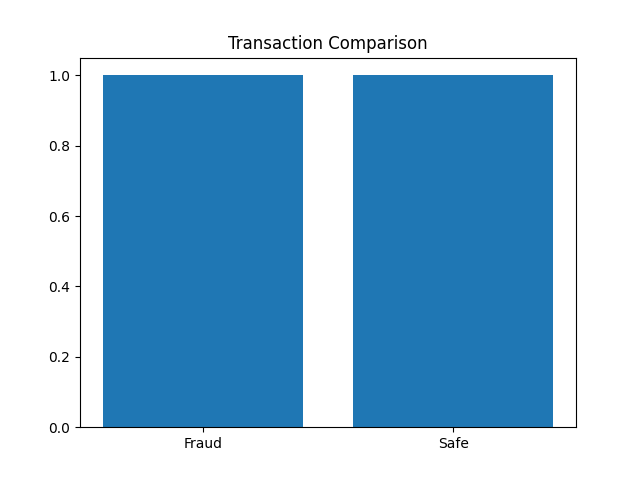
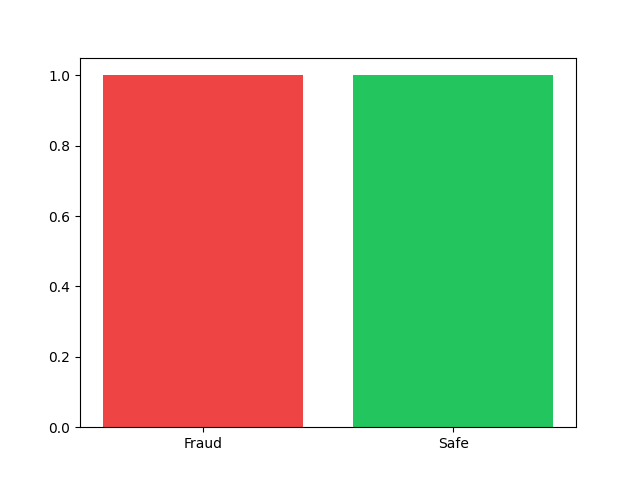
fraud

diff --git a/app.py b/app.py
@@ -5,8 +5,9 @@ import pandas as pd
 import os
 import matplotlib.pyplot as plt
 
-from reportlab.platypus import SimpleDocTemplate, Paragraph, Spacer, Image
+from reportlab.platypus import SimpleDocTemplate, Paragraph, Spacer, Image, Table, TableStyle
 from reportlab.lib.styles import getSampleStyleSheet
+from reportlab.lib import colors
 
 app = Flask(__name__)
 app.secret_key = "secret123"
@@ -92,7 +93,7 @@ def predict_ui():
         explanation=explanation
     )
 
-# ---------------- PDF REPORT ----------------
+# ---------------- PDF REPORT (FINAL CORPORATE) ----------------
 @app.route('/download_report')
 def download_report():
     df = pd.read_csv(LOG_FILE)
@@ -105,17 +106,16 @@ def download_report():
     pie_path = "pie.png"
     bar_path = "bar.png"
 
-    # Pie chart
+    # PIE CHART
     plt.figure()
-    plt.pie([fraud, safe], labels=["Fraud","Safe"], autopct='%1.1f%%')
-    plt.title("Fraud Distribution")
+    plt.pie([fraud, safe], labels=["Fraud","Safe"], autopct='%1.1f%%',
+            colors=["#ef4444","#22c55e"])
     plt.savefig(pie_path)
     plt.close()
 
-    # Bar chart
+    # BAR CHART
     plt.figure()
-    plt.bar(["Fraud","Safe"], [fraud, safe])
-    plt.title("Transaction Comparison")
+    plt.bar(["Fraud","Safe"], [fraud,safe], color=["#ef4444","#22c55e"])
     plt.savefig(bar_path)
     plt.close()
 
@@ -126,66 +126,101 @@ def download_report():
 
     content = []
 
-    # TITLE
-    content.append(Paragraph("<b>Fraud Detection Report</b>", styles['Title']))
+    from datetime import datetime
+
+    # HEADER
+    content.append(Paragraph("<b>Fraud Detection System - Corporate Report</b>", styles['Heading1']))
+    content.append(Paragraph("Financial Transaction Analysis Dashboard", styles['Normal']))
+    content.append(Spacer(1, 10))
+
+    content.append(Paragraph(
+        f"Generated on: {datetime.now().strftime('%d %B %Y, %H:%M')}",
+        styles['Normal']))
     content.append(Spacer(1, 15))
 
-    # INTRO
-    content.append(Paragraph(
-        "This report provides an overview of transaction analysis performed by the Fraud Detection System.",
-        styles['Normal']))
-    content.append(Spacer(1, 20))
+    # WIDE TABLE
+    table_data = [
+        ["Metric", "Description", "Value"],
+        ["Total Transactions", "All processed transactions in system", total],
+        ["Fraud Transactions", "Transactions flagged as suspicious", fraud],
+        ["Safe Transactions", "Transactions considered normal", safe],
+        ["Fraud Percentage", "Fraud ratio in total transactions", f"{round(percent,2)}%"]
+    ]
 
-    # SUMMARY
-    content.append(Paragraph("<b>Summary</b>", styles['Heading2']))
-    content.append(Spacer(1, 10))
+    table = Table(table_data, colWidths=[150, 250, 100])
+    table.setStyle(TableStyle([
+        ('BACKGROUND',(0,0),(-1,0),colors.HexColor("#1e3a8a")),
+        ('TEXTCOLOR',(0,0),(-1,0),colors.white),
+        ('FONTNAME',(0,0),(-1,0),'Helvetica-Bold'),
+        ('ALIGN',(0,0),(-1,-1),'CENTER'),
+        ('GRID',(0,0),(-1,-1),0.5,colors.grey),
+        ('BACKGROUND',(0,1),(-1,-1),colors.whitesmoke)
+    ]))
 
-    content.append(Paragraph(f"Total Transactions: {total}", styles['Normal']))
-    content.append(Paragraph(f"Fraud Transactions: {fraud}", styles['Normal']))
-    content.append(Paragraph(f"Safe Transactions: {safe}", styles['Normal']))
-    content.append(Paragraph(f"Fraud Percentage: {round(percent,2)}%", styles['Normal']))
+    content.append(table)
+    content.append(Spacer(1, 15))
 
-    content.append(Spacer(1, 20))
+    # CHARTS SIDE-BY-SIDE
+    chart_table = Table([
+        [
+            Image(pie_path, width=230, height=150),
+            Image(bar_path, width=230, height=150)
+        ]
+    ], colWidths=[260, 260])
 
-    # CHARTS
-    content.append(Paragraph("<b>Visual Analytics</b>", styles['Heading2']))
-    content.append(Spacer(1, 10))
+    content.append(chart_table)
+    content.append(Spacer(1, 15))
 
-    content.append(Image(pie_path, width=300, height=200))
-    content.append(Spacer(1, 10))
-    content.append(Image(bar_path, width=300, height=200))
-
-    content.append(Spacer(1, 20))
-
-    # ANALYSIS
-    content.append(Paragraph("<b>Analysis</b>", styles['Heading2']))
-    content.append(Spacer(1, 10))
-
+    # INSIGHT
     if percent > 50:
-        msg = "High fraud activity detected. Immediate monitoring recommended."
+        msg = "High fraud activity detected. Immediate monitoring and investigation is strongly recommended."
+        bg = colors.HexColor("#fee2e2")
     else:
-        msg = "Fraud levels are within acceptable limits."
+        msg = "Fraud levels are within acceptable limits and system behavior appears stable."
+        bg = colors.HexColor("#dcfce7")
 
-    content.append(Paragraph(msg, styles['Normal']))
+    insight = Table([[msg]], colWidths=[500])
+    insight.setStyle(TableStyle([
+        ('BACKGROUND',(0,0),(-1,-1),bg),
+        ('BOX',(0,0),(-1,-1),1,colors.black),
+        ('PADDING',(0,0),(-1,-1),10)
+    ]))
 
-    content.append(Spacer(1, 20))
+    content.append(insight)
+    content.append(Spacer(1, 15))
 
-    # CONCLUSION
-    content.append(Paragraph("<b>Conclusion</b>", styles['Heading2']))
+    # ABOUT PROJECT
+    content.append(Paragraph("<b>About This Project</b>", styles['Heading2']))
     content.append(Spacer(1, 10))
 
-    content.append(Paragraph(
-        "The system uses machine learning techniques to identify suspicious transactions "
-        "based on behavioral patterns such as amount, location, and past history.",
-        styles['Normal']))
+    points = [
+        "• This project implements a Machine Learning-based system to detect fraudulent transactions in real-time.",
+        "• It analyzes multiple behavioral factors such as transaction amount, location, device type, and past history.",
+        "• The system uses a trained classification model to distinguish between safe and fraudulent transactions.",
+        "• A web-based dashboard is provided to interact with the system and perform live transaction analysis.",
+        "• Visual analytics such as charts and summaries help in understanding fraud trends effectively.",
+        "• Automated PDF reports are generated to support monitoring and decision-making processes.",
+        "• The system design is inspired by real-world banking and financial fraud detection mechanisms.",
+        "• Built using Python, Flask, Scikit-learn, and data visualization tools."
+    ]
 
-    content.append(Spacer(1, 30))
+    for p in points:
+        content.append(Paragraph(p, styles['Normal']))
+        content.append(Spacer(1, 4))
 
+    # FOOTER
+    content.append(Spacer(1, 10))
     content.append(Paragraph(
-        "Generated by Fraud Detection System",
+        "Confidential Report | Fraud Detection System ",
         styles['Italic']))
 
-    doc.build(content)
+    # BORDER
+    def draw_border(canvas, doc):
+        canvas.setStrokeColor(colors.grey)
+        canvas.setLineWidth(2)
+        canvas.rect(20, 20, 570, 800)
+
+    doc.build(content, onFirstPage=draw_border)
 
     return send_file(file, as_attachment=True)
 
